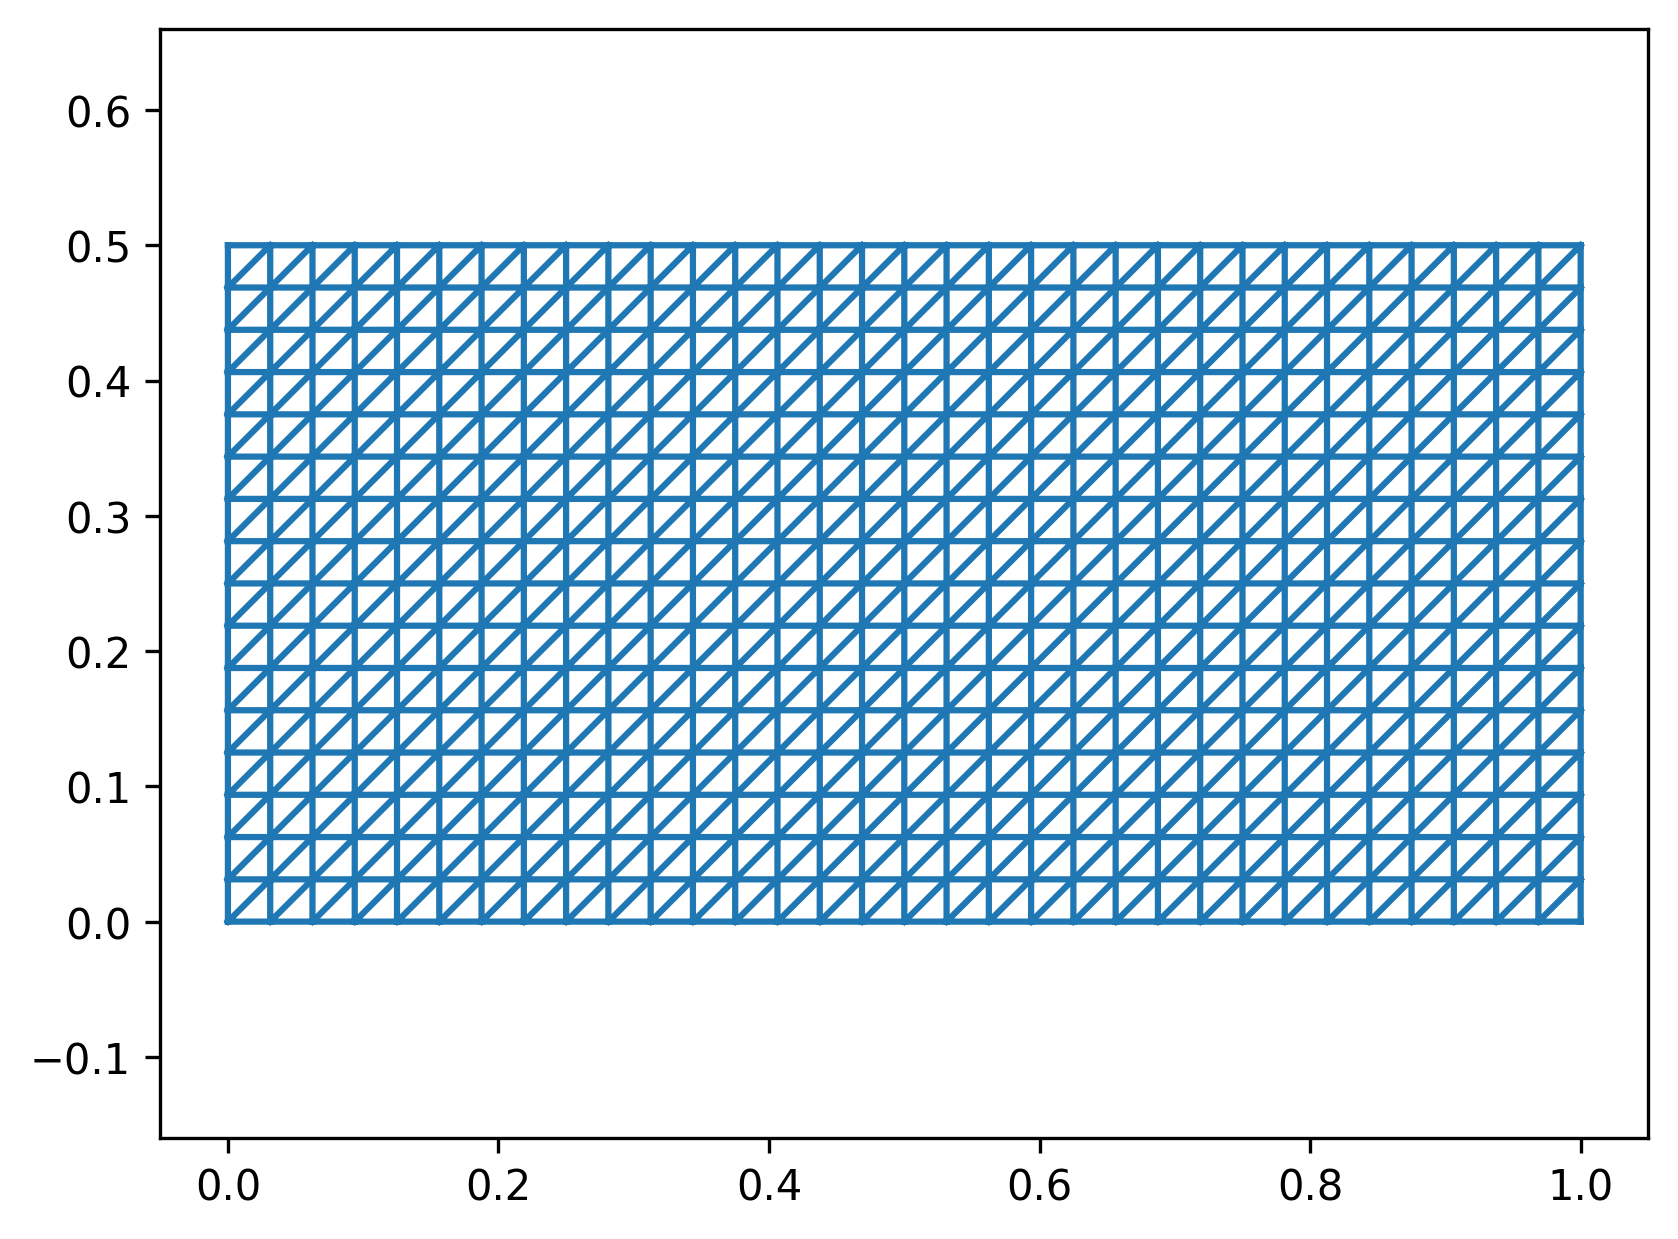
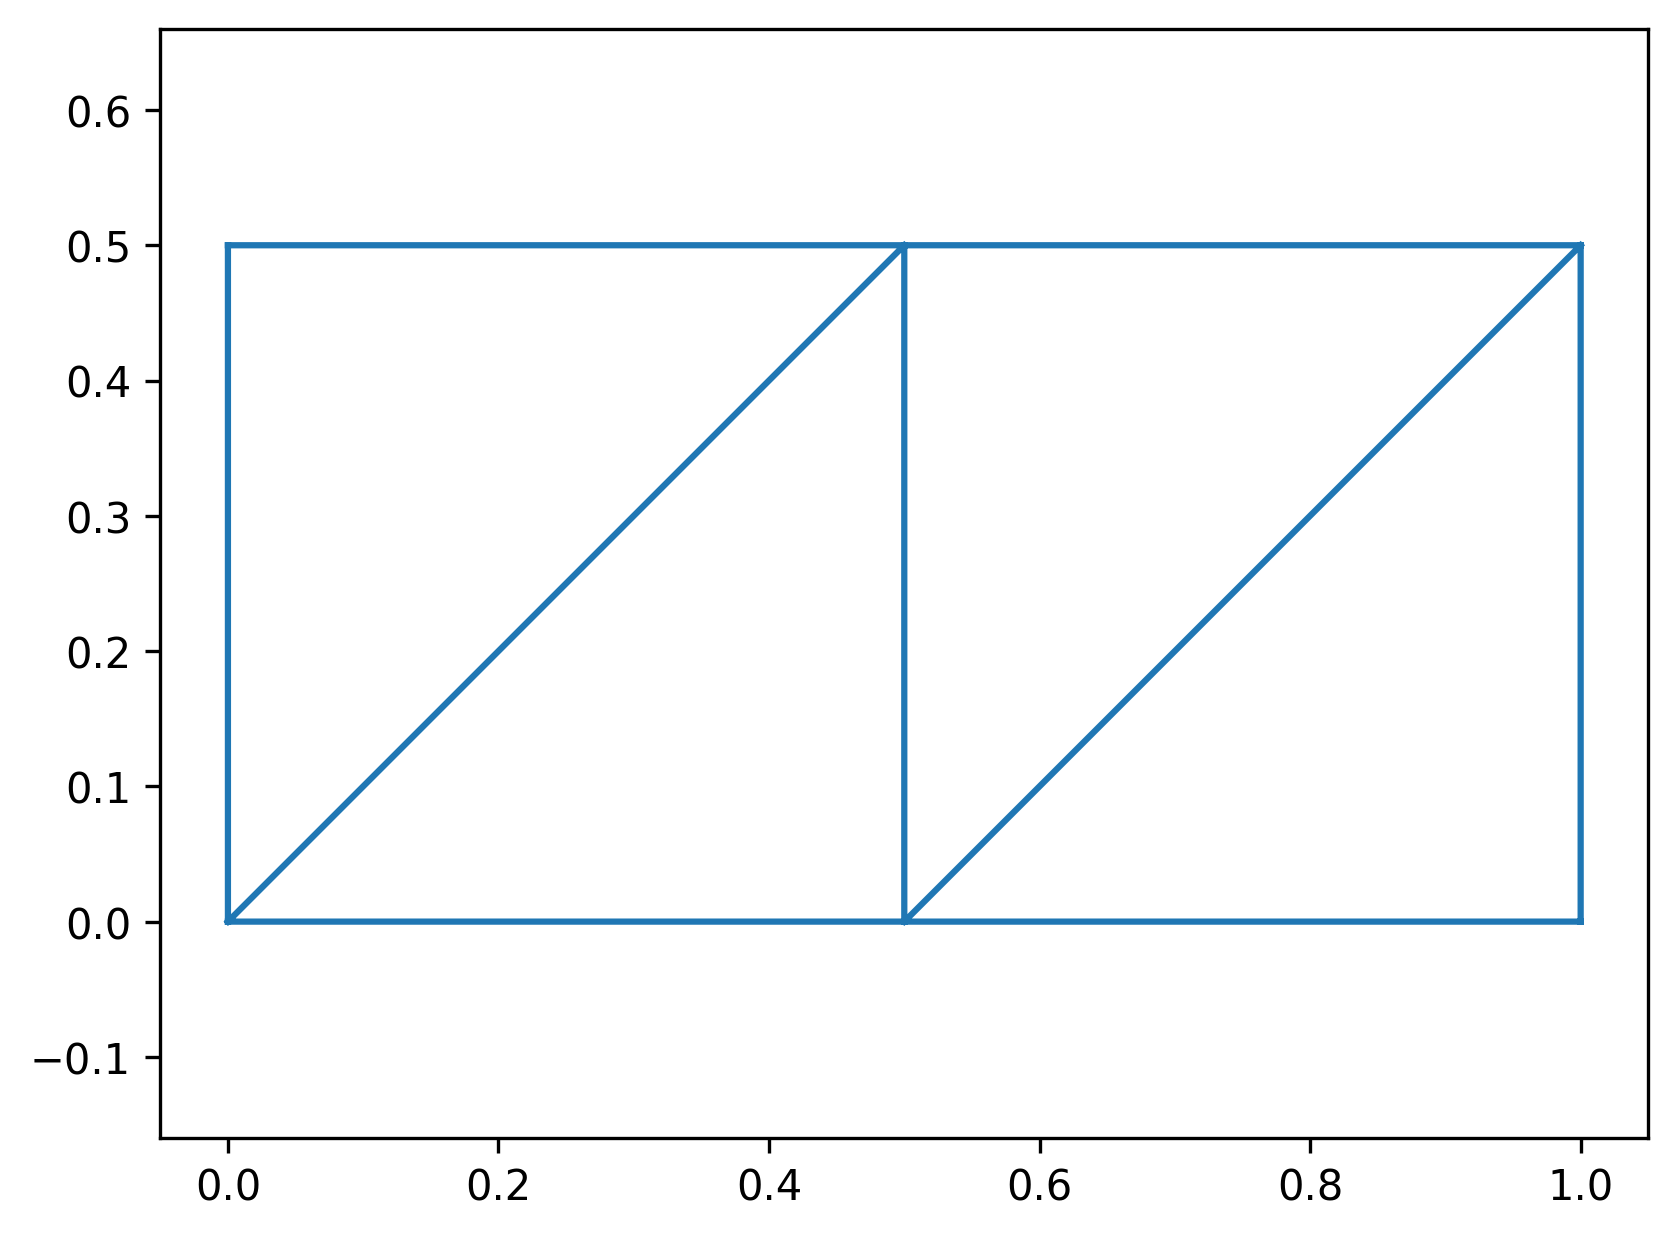
added Aj,Tj, Sj, update Bj

Changed region(s): [[0.124, 0.184, 0.9607, 0.7361]]

diff --git a/project2/main.py b/project2/main.py
@@ -79,16 +79,6 @@ def Rj_matrix(nx, ny, j, J):
     Rj = csr_matrix((data, (rows, cols)), shape=(nv_loc, nv), dtype=np.float64)
     return Rj
 
-def Bj_matrix(nx, ny, j, J, belt_artf):
-    ny_loc = (ny - 1) // J + 1
-    nv_loc = nx * ny_loc
-    nbelt = belt_artf.shape[0]
-    rows = np.arange(0, nbelt, 1, dtype=np.int64)
-    cols = rows + j * (ny_loc - 1) * nx
-    data = np.ones(nbelt, dtype=np.float64)
-    Bj = csr_matrix((data, (rows, cols)), shape=(nbelt, nv_loc), dtype=np.float64)
-    return Bj
-
 def Cj_matrix(nx, ny, j, J):
     #define size of the matrix Cj which is:
     #the sum of the size of all interfaces x size of one interface
@@ -99,9 +89,9 @@ def Cj_matrix(nx, ny, j, J):
     sizeCcol = nx if j == 0 or j == J - 1 else 2 * nx   
     rows = np.arange(0, sizeCrow, 1, dtype=np.int64)
     cols = np.zeros(sizeCcol, dtype=np.int64)
-    if j == 0:
+    if j == J - 1:
         cols = np.arange(0, nx, 1, dtype=np.int64)
-    elif j == J - 1:
+    elif j == 0:
         cols = np.arange((ny_loc - 1) * nx, ny_loc * nx, 1, dtype=np.int64)
     else:
         cols[:nx] = np.arange(0, nx, 1, dtype=np.int64)
@@ -112,7 +102,79 @@ def Cj_matrix(nx, ny, j, J):
 
 
 
+def Aj_matrix(vtxj, eltj, beltj_phys, kappa):
+    """
+    given the global assembly of A matrix:
+    M = mass(vtx_loc, elt_loc)
+    Mb = mass(vtx_loc, belt)
+    K = stiffness(vtx_loc, elt_loc)
+    A = K - k**2 * M - 1j * k * Mb  # matrix of linear system
+    """
+    #  Compute the local stiffness matrix
+    Kj = stiffness(vtxj, eltj)
 
+    # Compute the local mass matrix
+    Mj = mass(vtxj, eltj)
+
+    # 3. Compute the local boundary mass matrix for physical boundaries
+    # This represents the Robin/absorbing boundary condition (impedance)
+    Mbj = mass(vtxj, beltj_phys)
+
+    # 4. Assemble the local operator: A = K - k^2 * M - i * k * Mb
+    # Note: We use 1j for the imaginary unit
+    Aj = Kj - kappa**2 * Mj - 1j * kappa * Mbj
+
+    return Aj
+
+
+def Bj_matrix(nv_loc, belt_artf):
+    """
+    Maps the local nodes (Omega_j) to the artificial interface (Sigma_j).
+    Returns a matrix of size (nbelt_art x nv_loc).
+    """
+    # Number of nodes on the artificial interface
+    # belt_artf contains pair of vertices, so we extract unique nodes
+    interface_nodes = np.unique(belt_artf)
+    nbelt_nodes = len(interface_nodes)
+
+    rows = np.arange(nbelt_nodes)  # interface index
+    cols = interface_nodes  # local node indices: the actual node numbers in the subdomain mesh
+    data = np.ones(nbelt_nodes)
+
+    # Bj: (interface_nodes x local_nodes)
+    Bj = csr_matrix((data, (rows, cols)), shape=(nbelt_nodes, nv_loc))
+    return Bj
+
+
+def Tj_matrix(vtxj, beltj_artf, Bj, k):
+    """
+    Constructs the mass matrix reduced to the interface space.
+    """
+    # Mass matrix on local nodes (nv_loc x nv_loc)
+    M_local = mass(vtxj, beltj_artf)
+
+    # Project to interface space: Bj @ M @ Bj.T
+    # Resulting Tj is (nbelt_art x nbelt_art)
+    Tj_interface = Bj @ M_local @ Bj.T
+
+    return k * Tj_interface
+
+
+def Sj_factorization(Aj, Tj, Bj):
+    """
+    Constructs Sj = Aj - i * (Bj.T @ Tj @ Bj) and factorizes it.
+    """
+    # Expand Tj back to local dimensions (nv_loc x nv_loc)
+    # Since Bj is real, Bj.T is sufficient for the adjoint
+    Tj_expanded = Bj.T @ Tj @ Bj
+
+    # Assemble the complex local operator
+    Sj = Aj - 1j * Tj_expanded
+
+    # Factorize (splu requires CSC format)
+    Sj_fact = spla.splu(csc_matrix(Sj))
+
+    return Sj_fact
 
 
 
@@ -121,15 +183,18 @@ if __name__ == "__main__":
     np.random.seed(1234)
     Lx = 1
     Ly = 2
-    nx = int(1 + Lx * 32)
-    ny = int(1 + Ly * 32)
+    nx = int(1 + Lx * 2)
+    ny = int(1 + Ly * 2)
 
     vtx_loc, elt_loc = local_mesh(Lx, Ly, nx, ny)
     belt_phys, belt_artf = local_boundary(nx, ny, rank, size)
-    Rj = Rj_matrix(nx, ny, rank, size)
+    #Rj = Rj_matrix(nx, ny, rank, size)
+    #Bj = Bj_matrix(nx, ny, rank, size, belt_artf)
+    #j = Cj_matrix(nx, ny, rank, size)
+    #print(f"[Rank {rank}] " f"Vertices: {belt_artf.shape[0]}, "f"tot vtx: {nx * ny}, Cj = \n{Cj.todense()}")
     belt = belt_phys
 
-    print(f"[Rank {rank}] " f"Vertices: {vtx_loc.shape[0]}, "f"Elements: {elt_loc.shape[0]}")
+    print()
 
     k = 16           # Wavenumber of the problem
     ns = 8           # Number of point sources + random position and weight below
